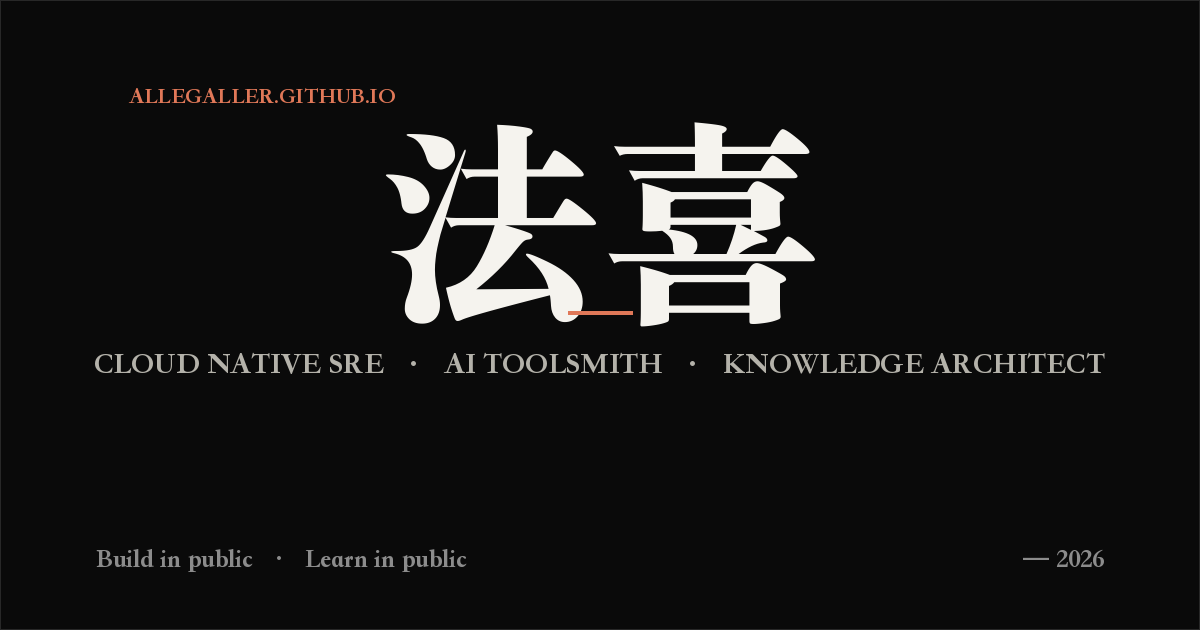
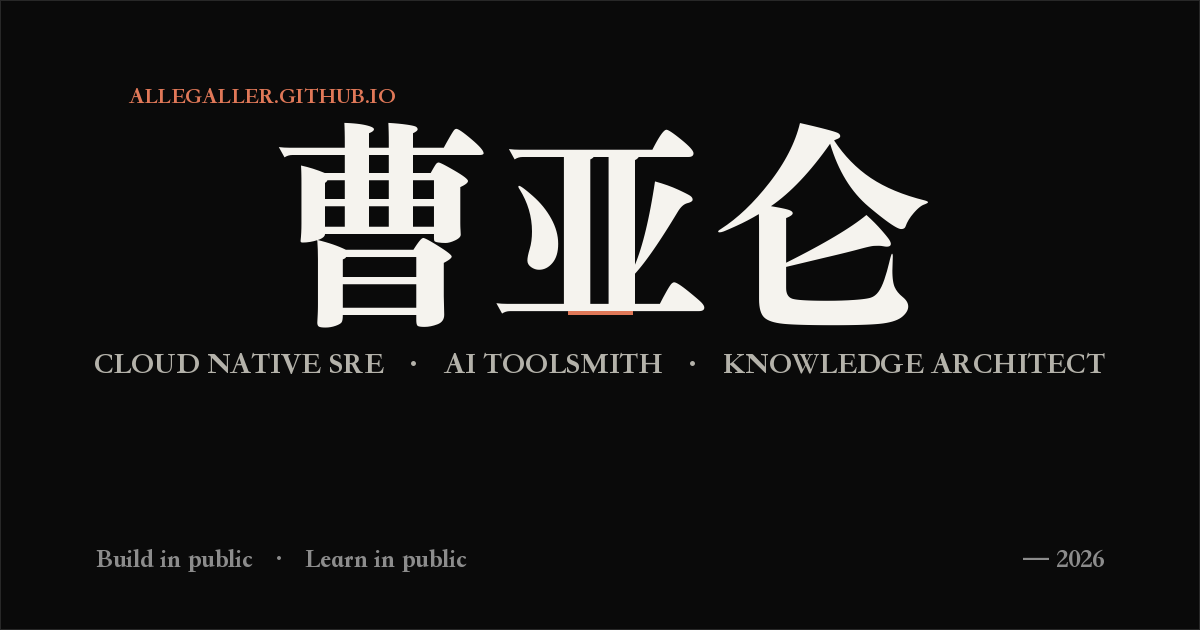
feat(brand): 个人品牌更名 — 全站去除「法喜」，启用 Allen Galler 曹亚仑
- 47 处替换 / 22 文件：结构化元数据（JSON-LD / og / PWA / feed）用 Allen Galler，
  中文语境（h1 / footer / 正文）用 曹亚仑，title 与 README 用全名
- favicon.svg 单字 法→曹；favicon/og PNG 由 generate-favicons.py 以「曹亚仑」重新生成
- PRODUCT.md 品牌条目由 [inferred] 更正为用户当面确认
- 源仓库镜像页（GTM/products/global-goodnews）不属本仓库品牌，保持不动
- 明暗双模式 hero 目检通过（暗色截图确认「曹亚仑」Fraunces 渲染与令牌翻转）

Changed region(s): [[0.2158, 0.181, 0.7708, 0.5429]]

diff --git a/_layouts/default.html b/_layouts/default.html
@@ -21,8 +21,8 @@
   <meta name="mobile-web-app-capable" content="yes">
   <meta name="apple-mobile-web-app-capable" content="yes">
   <meta name="apple-mobile-web-app-status-bar-style" content="black-translucent">
-  <meta name="apple-mobile-web-app-title" content="法喜">
-  <meta name="application-name" content="法喜">
+  <meta name="apple-mobile-web-app-title" content="Allen Galler">
+  <meta name="application-name" content="Allen Galler">
   <meta name="format-detection" content="telephone=no">
 
   <!-- Canonical & hreflang -->
@@ -31,11 +31,11 @@
   <link rel="alternate" hreflang="x-default" href="https://allengaller.github.io{{ page.url }}">
 
   <!-- RSS / Atom feed -->
-  <link rel="alternate" type="application/atom+xml" title="法喜 — Repos" href="/feed.xml">
+  <link rel="alternate" type="application/atom+xml" title="Allen Galler — Repos" href="/feed.xml">
 
   <!-- Open Graph -->
   <meta property="og:type" content="website">
-  <meta property="og:site_name" content="法喜">
+  <meta property="og:site_name" content="Allen Galler">
   <meta property="og:title" content="{{ page.title }}">
   <meta property="og:description" content="{{ page.description }}">
   <meta property="og:url" content="https://allengaller.github.io{{ page.url }}">
@@ -43,14 +43,14 @@
   <meta property="og:image" content="https://allengaller.github.io/og-default.png">
   <meta property="og:image:width" content="1200">
   <meta property="og:image:height" content="630">
-  <meta property="og:image:alt" content="法喜 — Cloud Native SRE · AI Toolsmith · Knowledge Architect">
+  <meta property="og:image:alt" content="Allen Galler — Cloud Native SRE · AI Toolsmith · Knowledge Architect">
 
   <!-- Twitter Card -->
   <meta name="twitter:card" content="summary_large_image">
   <meta name="twitter:title" content="{{ page.title }}">
   <meta name="twitter:description" content="{{ page.description }}">
   <meta name="twitter:image" content="https://allengaller.github.io/og-default.png">
-  <meta name="twitter:image:alt" content="法喜 — Cloud Native SRE · AI Toolsmith · Knowledge Architect">
+  <meta name="twitter:image:alt" content="Allen Galler — Cloud Native SRE · AI Toolsmith · Knowledge Architect">
 
   <!-- Security headers (meta equivalents — full headers need server config) -->
   <meta http-equiv="X-Content-Type-Options" content="nosniff">
@@ -91,7 +91,7 @@
 
   <footer class="site-footer">
     <div class="footer-row">
-      <span class="footer-mark">法喜</span>
+      <span class="footer-mark">曹亚仑</span>
       <span class="footer-text">Build in public · learn in public</span>
       <span class="footer-meta">2026</span>
     </div>

diff --git a/GTM/personal/index.html b/GTM/personal/index.html
@@ -1,7 +1,7 @@
 ---
 layout: default
-title: Go to Market — 法喜 · 三重飞轮
-description: 一次合作如何进入法喜的飞轮：Cloud Native SRE 的深度、可复用的知识资产、可调用的 AI 工具。面向合作方、招聘方与开发者，全部证据公开可验证。
+title: Go to Market — Allen Galler · 三重飞轮
+description: 一次合作如何进入曹亚仑的飞轮：Cloud Native SRE 的深度、可复用的知识资产、可调用的 AI 工具。面向合作方、招聘方与开发者，全部证据公开可验证。
 robots: index,follow
 nav_active_gtm: is-active
 jsonld: |
@@ -10,13 +10,13 @@ jsonld: |
     "@type": "ProfilePage",
     "mainEntity": {
       "@type": "Person",
-      "name": "法喜",
+      "name": "Allen Galler",
       "alternateName": "Allen Galler",
       "jobTitle": ["Cloud Native SRE", "AI Toolsmith", "Knowledge Architect"],
       "url": "https://allengaller.github.io",
       "sameAs": ["https://github.com/allengaller"]
     },
-    "about": "法喜的 Go to Market 页面：三重飞轮（SRE 深度 / 知识资产 / AI 工具化）与合作入口。"
+    "about": "曹亚仑的 Go to Market 页面：三重飞轮（SRE 深度 / 知识资产 / AI 工具化）与合作入口。"
   }
 ---
 
@@ -51,7 +51,7 @@ FINISH: unreviewed and undocumented is unfinished; this build ends with the fini
         工具<em>反哺</em>深度。
       </h1>
       <p class="gtm-sub">
-        我是法喜，Cloud Native SRE · AI Toolsmith · Knowledge Architect。
+        我是曹亚仑，Cloud Native SRE · AI Toolsmith · Knowledge Architect。
         这一页不讲情怀，只说明一件事：一次合作如何进入这台已经转动多年的飞轮，
         以及它为什么不会停。
       </p>

diff --git a/index.html b/index.html
@@ -1,13 +1,14 @@
 ---
 layout: default
-title: 法喜 | 高产开源黑客的个人品牌总入口
+title: Allen Galler 曹亚仑 | 高产开源黑客的个人品牌总入口
 description: 聚合 Cloud Native、AI Tooling、知识库、内容矩阵与合作路径的个人品牌首页，面向开发者、合作方、客户与国际受众。
 nav_active_home: is-active
 jsonld: |
   {
     "@context": "https://schema.org",
     "@type": "Person",
-    "name": "法喜",
+    "name": "Allen Galler",
+    "alternateName": "曹亚仑",
     "alternateName": "Allen Galler",
     "jobTitle": ["Cloud Native SRE", "AI Toolsmith", "Knowledge Architect"],
     "url": "https://allengaller.github.io",
@@ -40,7 +41,7 @@ jsonld: |
           <span>当前：v2 重构进行中</span>
         </span>
       </p>
-      <h1 class="home-name">法喜</h1>
+      <h1 class="home-name">曹亚仑</h1>
       <p class="home-tagline">Cloud Native SRE · AI Toolsmith · Knowledge Architect</p>
     </div>
     <aside class="home-hero-aside">

diff --git a/404.html b/404.html
@@ -39,7 +39,7 @@ robots: noindex,follow
     <a href="/" class="notfound-link">
       <span class="notfound-link-num">01</span>
       <span class="notfound-link-main">返回首页</span>
-      <span class="notfound-link-sub">了解法喜在做什么</span>
+      <span class="notfound-link-sub">了解曹亚仑在做什么</span>
     </a>
     <a href="/projects/" class="notfound-link">
       <span class="notfound-link-num">02</span>

diff --git a/about/index.html b/about/index.html
@@ -1,7 +1,7 @@
 ---
 layout: default
-title: About | 关于法喜
-description: 关于法喜：Cloud Native SRE、AI Toolsmith、Knowledge Architect，以及适合怎样的合作与连接方式。
+title: About | 关于曹亚仑
+description: 关于曹亚仑：Cloud Native SRE、AI Toolsmith、Knowledge Architect，以及适合怎样的合作与连接方式。
 nav_active_about: is-active
 ---
 

diff --git a/topic/links/index.html b/topic/links/index.html
@@ -2,7 +2,7 @@
 layout: default
 nav_active_links: is-active
 title: Links - 资源导航
-description: 法喜的资源导航页：技术写作、云原生、数据、开发、AI、生活六大方向的高质量内外链接。
+description: 曹亚仑的资源导航页：技术写作、云原生、数据、开发、AI、生活六大方向的高质量内外链接。
 ---
 
 <div class="links">

diff --git a/assets/js/site.js b/assets/js/site.js
@@ -1,5 +1,5 @@
 /* ─────────────────────────────────────────────────────────
-   法喜 — site.js
+   Allen Galler 曹亚仑 — site.js
    Minimal vanilla JS for: scroll progress, back-to-top,
    scroll-triggered reveals, magnetic CTAs.
    No dependencies. ~1KB minified.

diff --git a/assets/css/main.css b/assets/css/main.css
@@ -1,5 +1,5 @@
 /* ============================================================
-   法喜 — Impeccable Design System
+   Allen Galler 曹亚仑 — Impeccable Design System
    Editorial × Technical. Mono with single warm accent.
    Display: Fraunces (variable serif)  ·  Body: Geist  ·  Mono: JetBrains Mono
    ============================================================ */

diff --git a/projects/index.html b/projects/index.html
@@ -1,7 +1,7 @@
 ---
 layout: default
 title: Projects | 完整项目导航
-description: 法喜的完整项目导航页，集中列出所有工作室、语料库、应用、网站与工具项目。
+description: 曹亚仑的完整项目导航页，集中列出所有工作室、语料库、应用、网站与工具项目。
 nav_active_projects: is-active
 ---
 

diff --git a/_scripts/build.py b/_scripts/build.py
@@ -616,7 +616,7 @@ def _build_repo_page(repo, related):
         ],
         "author": {
             "@type": "Person",
-            "name": "法喜 (Allen Galler)",
+            "name": "Allen Galler (曹亚仑)",
             "url": "https://allengaller.github.io/about/",
         },
     }
@@ -1389,13 +1389,13 @@ def generate_rss(cache, force=False):
 
     parts = ['<?xml version="1.0" encoding="UTF-8"?>']
     parts.append('<feed xmlns="http://www.w3.org/2005/Atom">')
-    parts.append(f'  <title>{_h("法喜 — Repos")}</title>')
+    parts.append(f'  <title>{_h("Allen Galler — Repos")}</title>')
     parts.append(f'  <subtitle>{_h("My own GitHub repos, sorted by latest activity")}</subtitle>')
     parts.append(f'  <link href="{SITE_URL}/feed.xml" rel="self"/>')
     parts.append(f'  <link href="{SITE_URL}/"/>')
     parts.append(f'  <id>{SITE_URL}/</id>')
     parts.append(f'  <updated>{_h(updated)}</updated>')
-    parts.append('  <author><name>法喜 (Allen Galler)</name><uri>https://allengaller.github.io/about/</uri></author>')
+    parts.append('  <author><name>Allen Galler (曹亚仑)</name><uri>https://allengaller.github.io/about/</uri></author>')
 
     for r in repos:
         full_name = r.get("full_name", "")
@@ -1420,7 +1420,7 @@ def generate_rss(cache, force=False):
             parts.append(f'    <published>{_h(commit_iso)}</published>')
         if desc:
             parts.append(f'    <summary>{_h(desc)}</summary>')
-        parts.append(f'    <author><name>{_h(r.get("last_commit_author") or "法喜")}</name></author>')
+        parts.append(f'    <author><name>{_h(r.get("last_commit_author") or "曹亚仑")}</name></author>')
         parts.append('  </entry>')
     parts.append('</feed>')
 

diff --git a/_scripts/generate-favicons.py b/_scripts/generate-favicons.py
@@ -88,9 +88,9 @@ def make_og_image():
     bbox = draw.textbbox((0, 0), accent_text, font=accent_font)
     draw.text((96, 80), accent_text, fill=(224, 120, 88, 255), font=accent_font)  # accent
 
-    # Name "法喜" — large, characterful serif feel
+    # Name "曹亚仑" — large, characterful serif feel
     name_font = load_font(220, "display")
-    name = "法喜"
+    name = "曹亚仑"
     bbox = draw.textbbox((0, 0), name, font=name_font)
     name_w = bbox[2] - bbox[0]
     name_h = bbox[3] - bbox[1]
